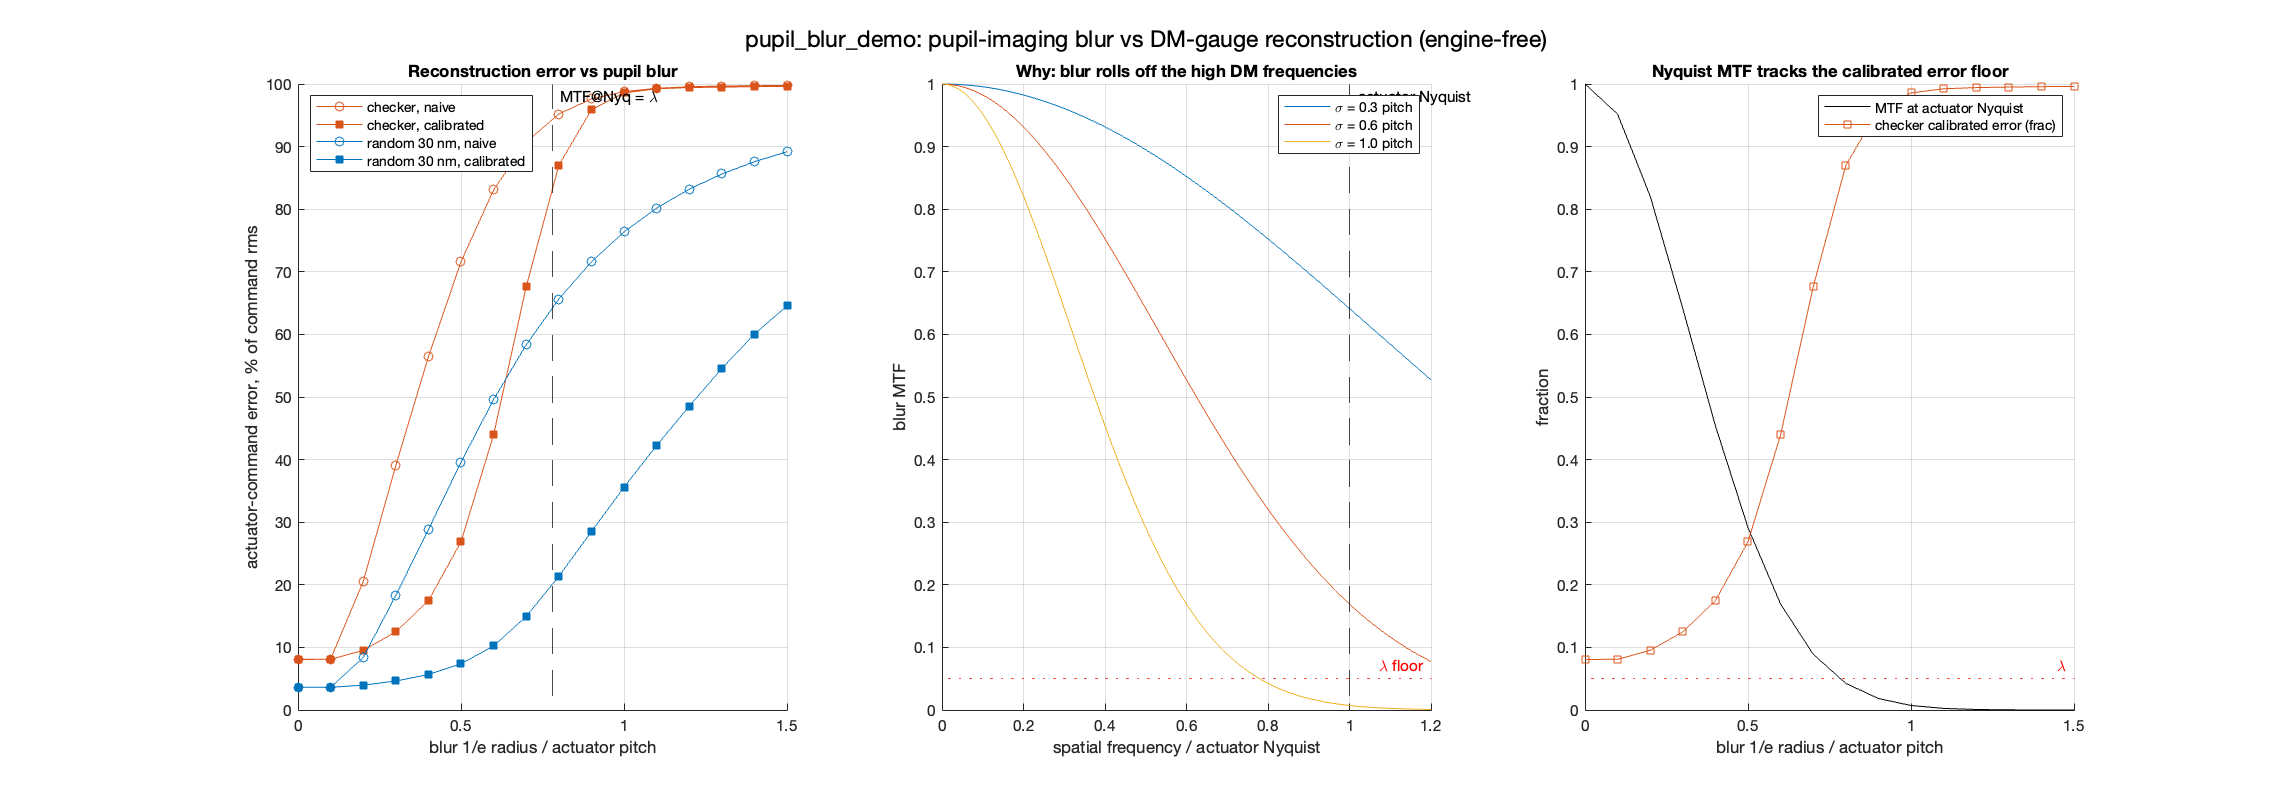
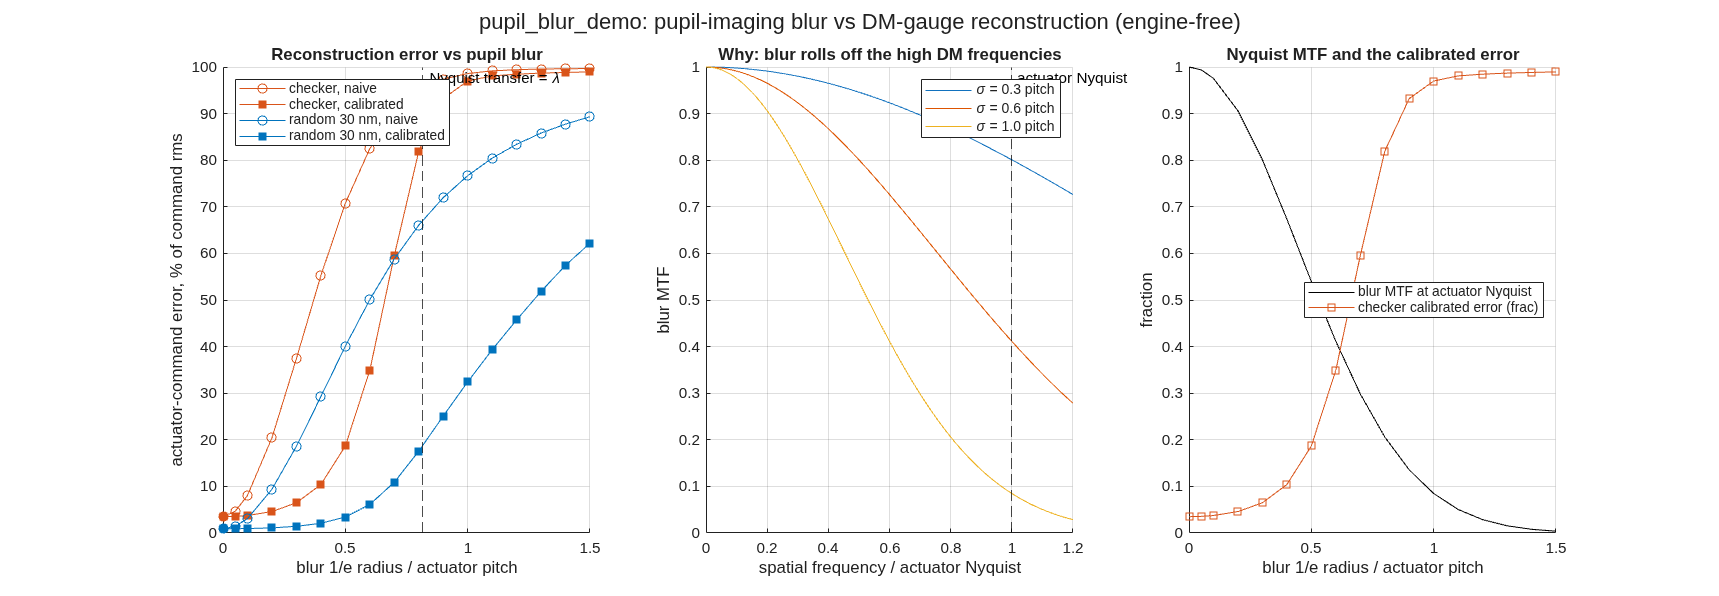
pupil_blur_demo step 1 (BRIEF_to_pupil_blur): the floor is the estimator's, now fixed -- actuator sites are grid nodes (dx = pitch/4, N odd; no interp2 at the sites), kernel solve for LIT unknowns only (local act_fit_lit_; dmg_act_fit unchanged, kept as the all-unknowns negative control), Gaussian b

diff --git a/mmacos/templates/40_benches/tg_psi_dm96_oap/pupil_blur_demo.m b/mmacos/templates/40_benches/tg_psi_dm96_oap/pupil_blur_demo.m
@@ -9,38 +9,48 @@ function out = pupil_blur_demo(varargin)
 %        Gaussian influence-function model as dm_influence_map),
 %     2. BLUR it with a pupil-imaging kernel (a Gaussian PSF of 1/e radius
 %        sigma, swept) + add read noise -- this is what the camera sees,
-%     3. RECONSTRUCT the actuator commands from the blurred map with the
-%        gauges' OWN reconstruction (dmg_stencil + dmg_act_fit, the
-%        Tikhonov lattice deconvolution -- not a toy),
+%     3. RECONSTRUCT the actuator commands from the blurred map,
 %     4. plot the actuator-command error vs blur width.
 %
 %   Two reconstructions are run at every blur width:
-%     * NAIVE   -- deconvolves the influence stencil only (blur ignored).
+%     * NAIVE      -- deconvolves the influence stencil only (blur ignored).
 %     * CALIBRATED -- deconvolves the EFFECTIVE stencil (influence (*) blur),
 %       i.e. the blur is folded into the forward model, as a calibration does.
+%
+%   The estimator is the gauges' kernel form (dmg_stencil + the Tikhonov
+%   lattice deconvolution of dmg_act_fit, lambda relative to the stencil
+%   peak), solved for the LIT actuators only, with the map sampled exactly at
+%   the actuator sites (the sites sit on the map grid: dx = pitch/4, N odd).
+%   The legacy all-unknowns solve (dmg_act_fit as it stands: every one of the
+%   96 x 96 commands free while the map is masked to the lit set) is kept as
+%   the negative control -- its free ring outside the lit set is what made the
+%   old 'blur-free floor' (8.1 % / 3.6 %, CC review 2026-10-09).
 %
 %   The lesson the curves make visible: blur attenuates the DM's HIGH
 %   spatial frequencies (an MTF roll-off).  A calibrated reconstruction
 %   undoes that -- until the MTF at the DM's highest spatial frequency (the
 %   actuator Nyquist, where the +/- checkerboard lives) falls to the
-%   reconstruction's regularization/noise floor (~lambda).  THAT crossover
-%   is "when blur is a concern".  Below it, blur costs almost nothing; the
-%   naive reconstruction, by contrast, degrades far earlier.
+%   reconstruction's regularization/noise floor.  Below it, blur costs almost
+%   nothing; the naive reconstruction, by contrast, degrades far earlier.
+%
+%   Error metric: rms over the lit actuators of (recovered - true) commands,
+%   lit-mean (piston) removed from both, divided by the rms of the true
+%   commands (piston removed).
 %
 %   Name/value (defaults match the 96x96 tg96 rig):
 %     'nact'   96     actuators across
 %     'pitch'  1.0    actuator pitch (mm)
 %     'infl_w' 0.85   influence 1/e radius, in PITCH units (dm_influence_map's)
-%     'N'      384    WF grid (= tg96 N_G)
-%     'dx'     0.28   WF grid pitch, mm (= tg96 DX_G)
+%     'sub'    4      map pixels per pitch (dx = pitch/sub; the sites are nodes)
 %     'work_nm' 30    command RMS of the working surface (random pattern)
 %     'poke_nm' 50    command amplitude of the checkerboard (Nyquist stress)
-%     'noise_pm' 20   read noise added to the blurred map, pm RMS
-%     'lam'    0.05   Tikhonov weight (dmg_act_fit default)
+%     'noise_pm' 20   read noise added to the blurred map, pm RMS per pixel
+%     'lam'    0.05   kernel Tikhonov weight (dmg_act_fit default)
+%     'lam_sweep' [0.05 1e-2 1e-3 1e-4]   the sigma = 0 lambda x noise sweep
 %     'hw'     6      stencil half-width, actuators (tg96/zwfs value)
-%     'sig_pitch' [0 0.1:0.1:1.5]  blur 1/e radii to sweep, in PITCH units
-%                                  (0 = the blur-free floor)
+%     'sig_pitch' [0 0.05 0.1:0.1:1.5]  blur 1/e radii to sweep, PITCH units
 %     'seed'   7      RNG seed (random command pattern + noise)
+%     'figures' true  write the PNGs
 %     'outdir' runs/pupil_blur_demo   where the report + PNGs are written
 %
 %   Writes <outdir>/pupil_blur_demo_{report.txt, curve.png, maps.png}.
@@ -49,13 +59,12 @@ function out = pupil_blur_demo(varargin)
 %   dm_gauge_lib helpers on the path (../dm_gauge_lib, added automatically).
 %   It is the plain-physics companion to tg96_pupilsim in this same folder.
 
-o = struct('nact',96,'pitch',1.0,'infl_w',0.85,'N',384,'dx',0.28, ...
-           'work_nm',30,'poke_nm',50,'noise_pm',20,'lam',0.05,'hw',6, ...
-           'sig_pitch',[0 0.1:0.1:1.5],'seed',7,'outdir','');
+o = struct('nact',96,'pitch',1.0,'infl_w',0.85,'sub',4, ...
+           'work_nm',30,'poke_nm',50,'noise_pm',20,'lam',0.05,'lam_sweep',[0.05 1e-2 1e-3 1e-4],'hw',6, ...
+           'sig_pitch',[0 0.05 0.1:0.1:1.5],'seed',7,'figures',true,'outdir','');
 for k = 1:2:numel(varargin), o.(varargin{k}) = varargin{k+1}; end
 here = fileparts(mfilename('fullpath'));  if isempty(here), here = pwd; end
 if isempty(o.outdir), o.outdir = fullfile(here,'runs','pupil_blur_demo'); end
-% the two gauge-library helpers that carry the real reconstruction live next door
 if isempty(which('dmg_act_fit')) && exist(fullfile(here,'..','dm_gauge_lib'),'dir')
     addpath(fullfile(here,'..','dm_gauge_lib'));
 end
@@ -66,29 +75,34 @@ rep = fopen(fullfile(o.outdir,'pupil_blur_demo_report.txt'),'w');
 clean = onCleanup(@() fclose(rep));
 say = @(varargin) deal_(fprintf(varargin{:}), fprintf(rep,varargin{:}));
 
-N = o.N;  dx = o.dx;  pitch = o.pitch;  nact = o.nact;
+% ---- geometry: the actuator sites are NODES of the map grid ----
+pitch = o.pitch;  nact = o.nact;  dx = pitch/o.sub;
 w_mm = o.infl_w*pitch;                       % influence 1/e radius, mm
-xg = ((1:N)-(N+1)/2)*dx;  [X,Y] = meshgrid(xg,xg);
-xa = ((1:nact)-(nact+1)/2)*pitch;            % actuator centres, mm
-[axg,ayg] = meshgrid(xa);
+xa = ((1:nact)-(nact+1)/2)*pitch;            % actuator centres, mm (half-integers for even nact)
 R_ap = (nact/2)*pitch;                       % DM aperture radius
+halfN = ceil((R_ap + 8*pitch)/dx);           % margin for the blur kernels
+if mod(nact,2) == 0 && mod(o.sub,2) ~= 0, error('pupil_blur_demo:sub', '''sub'' must be even for an even nact (sites at half-pitch must be nodes)'); end
+xg = (-halfN:halfN)*dx;  N = numel(xg);  [X,Y] = meshgrid(xg,xg);
+[axg,ayg] = meshgrid(xa);
+ic = round((xa - xg(1))/dx) + 1;             % grid index of each site
+assert(max(abs(xg(ic) - xa)) < 1e-9*pitch, 'the actuator sites are not grid nodes');
 R_ill = 0.74*R_ap;                           % source cone fills ~74% (the bench's illuminated-fill doctrine)
-lit = hypot(axg,ayg) < 0.85*R_ill;           % lit actuators, per dmg_lit's 0.85 R_ill rule
-litf = hypot(X,Y) < 0.85*R_ill;              % the same region on the fine grid
-
+lit = hypot(axg,ayg) < 0.85*R_ill;           % lit actuators, dmg_lit's 0.85 R_ill rule (2852 here)
+msk = hypot(X,Y) < R_ill;                    % the illuminated map (the detector support)
 f_nyq = 1/(2*pitch);                         % actuator Nyquist, cyc/mm (the checkerboard)
-mtf = @(sig) exp(-2*pi^2*sig.^2*f_nyq^2);    % Gaussian-blur MTF at the Nyquist frequency
+mtf = @(sig) exp(-pi^2*sig.^2*f_nyq^2);      % MTF of exp(-r^2/sig^2) (1/e radius sig) at the Nyquist frequency
 
 say('=== pupil_blur_demo: when is pupil-imaging blur a concern? ===\n');
-say('DM %dx%d at %.2f mm pitch; influence 1/e %.2f mm; WF grid %d x %.3f mm; %d lit actuators\n', ...
+say('DM %dx%d at %.2f mm pitch; influence 1/e %.2f mm; map grid %d x %.3f mm (the actuator sites are grid nodes); %d lit actuators (0.85 x 0.74 R_ap)\n', ...
     nact,nact,pitch,w_mm,N,dx,nnz(lit));
-say('actuator Nyquist = %.3f cyc/mm; Tikhonov lambda = %.3f; read noise = %g pm rms\n', f_nyq,o.lam,o.noise_pm);
-say('reconstruction: dmg_stencil + dmg_act_fit (the gauges'' own Tikhonov lattice deconvolution)\n\n');
+say('actuator Nyquist = %.3f cyc/mm; kernel lambda = %.3g (of the stencil peak); read noise = %g pm rms per map pixel (%d pixels per actuator)\n', ...
+    f_nyq,o.lam,o.noise_pm,o.sub^2);
+say('error = rms(recovered - true) over the lit actuators, piston removed, / rms(true commands)\n\n');
 
-% ---- the unit influence (a single poke) and the two stencils ----
-infl = @(u,v) exp(-((X-u).^2 + (Y-v).^2)/w_mm^2);
-Mu = infl(0,0);                              % unit poke at the DM centre, on the fine grid
-stn_true = dmg_stencil(Mu, xg, 0, 0, pitch, o.hw);   % the TRUE influence stencil (blur ignored)
+% ---- the unit influence (a poke at the node (0,0)) and the true stencil ----
+Kinf = infl_kernel_(w_mm, dx);
+Mu = zeros(N);  Mu((N+1)/2,(N+1)/2) = 1;  Mu = conv2(Mu, Kinf, 'same');
+stn_true = dmg_stencil(Mu, xg, 0, 0, pitch, o.hw);
 
 % ---- the two known command sets ----
 rng(o.seed);
@@ -96,48 +110,64 @@ pat.checker = o.poke_nm*1e-6 * (-1).^((1:nact).'+(1:nact));   % Nyquist stress (
 pat.random  = o.work_nm*1e-6 * randn(nact);                   % the record's 30 nm working surface
 pat.random(~lit) = 0;  pat.checker(~lit) = 0;
 names = {'checker','random'};
-surf.checker = build_surf_(pat.checker, xa, X, Y, w_mm, R_ap);
-surf.random  = build_surf_(pat.random,  xa, X, Y, w_mm, R_ap);
+for p = 1:2, surf.(names{p}) = build_surf_(pat.(names{p}), ic, N, Kinf); end
+noise = @(s) (o.noise_pm*1e-9)*randn(N);
 
+% ================= the floor (sigma = 0): lambda x noise, lit-only vs all unknowns =================
+say('---- the blur-free floor (sigma = 0): kernel estimator, lambda x read noise ----\n');
+say('%-8s %8s | %-23s | %-23s\n', 'lambda', 'noise', 'checker: lit / all unk.', 'random: lit / all unk.');
+fl = struct();
+for il = 1:numel(o.lam_sweep)
+    for nz = [o.noise_pm 0]
+        e = zeros(2,2);
+        for p = 1:2
+            rng(o.seed + 1000);  m = surf.(names{p}) + (nz*1e-9)*randn(N);
+            a1 = act_fit_lit_(m, ic, stn_true, lit, o.lam_sweep(il));
+            evalc('a2 = dmg_act_fit(m, xg, axg, ayg, stn_true, lit, o.lam_sweep(il));');   % (its pcg prints)
+            e(p,:) = [relerr_(a1, pat.(names{p}), lit), relerr_(a2, pat.(names{p}), lit)];
+        end
+        say('%-8.0e %5g pm | %9.4f%% / %8.3f%% | %9.4f%% / %8.3f%%\n', o.lam_sweep(il), nz, 100*e(1,1), 100*e(1,2), 100*e(2,1), 100*e(2,2));
+        if o.lam_sweep(il) == o.lam && nz == o.noise_pm, fl.lit = e(:,1); fl.all = e(:,2); end
+    end
+end
+say('=> lit-only, sites on the grid: the floor is the regularization bias (the checker''s Nyquist transfer against lambda) plus the noise -- it moves with both;\n');
+say('   all unknowns (dmg_act_fit as it stands, the legacy control): the free ring outside the lit set holds the floor at percent level whatever lambda and noise.\n\n');
+
+% ================= the blur sweep =================
 nS = numel(o.sig_pitch);
 err = struct('checker',struct('naive',nan(1,nS),'cal',nan(1,nS)), ...
              'random', struct('naive',nan(1,nS),'cal',nan(1,nS)));
 mtfN = mtf(o.sig_pitch*pitch);
-
-say('%-8s %8s %8s | %-18s | %-18s\n','blur','sig/pit','MTF@Nyq','checker err (naive/cal)','random err (naive/cal)');
+say('---- the blur sweep (kernel estimator, lambda %.3g, lit unknowns) ----\n', o.lam);
+say('%-8s %8s %8s | %-24s | %-24s\n','blur','sig/pit','MTF@Nyq','checker err (naive/cal)','random err (naive/cal)');
 for is = 1:nS
-    sig = o.sig_pitch(is)*pitch;                 % blur 1/e radius, mm
-    K = blur_kernel_(sig, dx);                   % normalized Gaussian PSF (sums to 1)
-    Mu_blur = conv2(Mu, K, 'same');              % the blurred unit influence
-    stn_eff = dmg_stencil(Mu_blur, xg, 0, 0, pitch, o.hw);   % the CALIBRATED (effective) stencil
+    sig = o.sig_pitch(is)*pitch;
+    stn_eff = dmg_stencil(blur_(Mu, sig, dx), xg, 0, 0, pitch, o.hw);   % the CALIBRATED (effective) stencil
     for p = 1:2
         nm = names{p};
-        m = conv2(surf.(nm), K, 'same');                     % what the camera sees
-        m = m + (o.noise_pm*1e-9)*randn(N);                  % + read noise (mm)
-        a_naive = dmg_act_fit(m, xg, axg, ayg, stn_true, lit, o.lam);
-        a_cal   = dmg_act_fit(m, xg, axg, ayg, stn_eff,  lit, o.lam);
-        err.(nm).naive(is) = relerr_(a_naive, pat.(nm), lit);
-        err.(nm).cal(is)   = relerr_(a_cal,   pat.(nm), lit);
+        rng(o.seed + is);  m = blur_(surf.(nm), sig, dx) + noise();      % what the camera sees
+        err.(nm).naive(is) = relerr_(act_fit_lit_(m, ic, stn_true, lit, o.lam), pat.(nm), lit);
+        err.(nm).cal(is)   = relerr_(act_fit_lit_(m, ic, stn_eff,  lit, o.lam), pat.(nm), lit);
     end
-    say('%6.2fmm %8.3f %8.4f | %7.2f%% / %6.2f%% | %7.2f%% / %6.2f%%\n', sig, o.sig_pitch(is), mtfN(is), ...
+    say('%6.3fmm %8.3f %8.4f | %8.3f%% / %8.3f%% | %8.3f%% / %8.3f%%\n', sig, o.sig_pitch(is), mtfN(is), ...
         100*err.checker.naive(is), 100*err.checker.cal(is), 100*err.random.naive(is), 100*err.random.cal(is));
 end
 
-% ---- the lesson: the blur-free floor, and where blur doubles it ----
-sig_lam  = sqrt(-log(o.lam)/(2*pi^2*f_nyq^2));                % the sigma where MTF(f_nyq) = lambda
-fl_chk   = err.checker.cal(1);  fl_rnd = err.random.cal(1);   % sig = 0: the intrinsic (blur-free) floor
+% ---- the lesson ----
+alt = (-1).^((-o.hw:o.hw).'+(-o.hw:o.hw));  Hn = abs(sum(stn_true.*alt,'all'))/max(abs(stn_true(:)));   % stencil transfer at Nyquist / peak
+sig_lam = sqrt(max(0,-log(o.lam/Hn))/(pi^2*f_nyq^2));         % where the blurred Nyquist transfer falls to lambda
 spmm = o.sig_pitch*pitch;
-sig2_cal_c = cross_(spmm, err.checker.cal,   2*fl_chk);       % calibrated checker reaches 2x its floor
-sig2_nai_c = cross_(spmm, err.checker.naive, 2*fl_chk);       % naive reaches 2x the same floor
+fl_c = err.checker.cal(1);
+sig2_cal_c = cross_(spmm, err.checker.cal,   max(2*fl_c, 0.01));
+sig2_nai_c = cross_(spmm, err.checker.naive, max(2*fl_c, 0.01));
 say('\n---- the lesson ----\n');
-say('blur-free floor (sigma=0, intrinsic Nyquist regularization at lambda=%.3f): checker %.1f%%, random %.1f%%\n', o.lam, 100*fl_chk, 100*fl_rnd);
-say('a CALIBRATED read holds near that floor until the blur doubles it: checker 2x floor at sigma = %.2f pitch; the NAIVE read doubles the floor by sigma = %.2f pitch\n', ...
-    sig2_cal_c/pitch, sig2_nai_c/pitch);
-say('the structural knee is MTF(actuator Nyquist) = lambda at sigma = %.2f pitch -- beyond it the checkerboard is lost even to calibration\n', sig_lam/pitch);
-say('=> blur is a concern only when its MTF at the DM''s highest spatial frequency approaches the reconstruction''s regularization/noise floor; below that a calibrated read removes it.\n');
-say('   the real tg96 leg (tg96_pupilsim) broadens a single poke by <~1%% (width/true ~1.0) -- i.e. sigma ~ 0, the far-left of these curves.\n');
+say('blur-free floor (sigma = 0, lambda %.3g, %g pm): checker %.3f%%, random %.3f%% (all-unknowns control: %.2f%% / %.2f%%)\n', ...
+    o.lam, o.noise_pm, 100*fl.lit(1), 100*fl.lit(2), 100*fl.all(1), 100*fl.all(2));
+say('the checker error passes max(2 x floor, 1%%): calibrated at sigma = %.2f pitch, naive at sigma = %.2f pitch\n', sig2_cal_c/pitch, sig2_nai_c/pitch);
+say('the structural knee: the stencil''s Nyquist transfer (%.3f of its peak) x the blur MTF falls to lambda at sigma = %.2f pitch -- beyond it the checkerboard is lost even to calibration\n', Hn, sig_lam/pitch);
 
 % ================= figures =================
+if o.figures
 fc = figure('Visible','off','Position',[100 100 1500 520]);
 sp = o.sig_pitch;
 subplot(1,3,1); hold on; grid on;
@@ -145,34 +175,30 @@ plot(sp, 100*err.checker.naive,'-o','Color',[.85 .33 .1],'DisplayName','checker,
 plot(sp, 100*err.checker.cal,  '-s','Color',[.85 .33 .1],'MarkerFaceColor',[.85 .33 .1],'DisplayName','checker, calibrated');
 plot(sp, 100*err.random.naive, '-o','Color',[0 .45 .74],'DisplayName','random 30 nm, naive');
 plot(sp, 100*err.random.cal,   '-s','Color',[0 .45 .74],'MarkerFaceColor',[0 .45 .74],'DisplayName','random 30 nm, calibrated');
-xline(sig_lam/pitch,'k--','MTF@Nyq = \lambda','LabelOrientation','horizontal','HandleVisibility','off');
+xline(sig_lam/pitch,'k--','Nyquist transfer = \lambda','LabelOrientation','horizontal','HandleVisibility','off');
 xlabel('blur 1/e radius / actuator pitch'); ylabel('actuator-command error, % of command rms');
 title('Reconstruction error vs pupil blur'); legend('Location','northwest'); ylim([0 100]);
 subplot(1,3,2); hold on; grid on;
 ff = linspace(0,1.2*f_nyq,200);
 for sgp = [0.3 0.6 1.0]
-    plot(ff/f_nyq, exp(-2*pi^2*(sgp*pitch)^2*ff.^2),'DisplayName',sprintf('\\sigma = %.1f pitch',sgp));
+    plot(ff/f_nyq, exp(-pi^2*(sgp*pitch)^2*ff.^2),'DisplayName',sprintf('\\sigma = %.1f pitch',sgp));
 end
 xline(1,'k--','actuator Nyquist','LabelOrientation','horizontal','HandleVisibility','off');
-yline(o.lam,'r:','\lambda floor','HandleVisibility','off');
 xlabel('spatial frequency / actuator Nyquist'); ylabel('blur MTF');
 title('Why: blur rolls off the high DM frequencies'); legend('Location','northeast');
 subplot(1,3,3); hold on; grid on;
-plot(sp, mtfN,'k-','DisplayName','MTF at actuator Nyquist');
+plot(sp, mtfN,'k-','DisplayName','blur MTF at actuator Nyquist');
 plot(sp, err.checker.cal,'-s','Color',[.85 .33 .1],'DisplayName','checker calibrated error (frac)');
-yline(o.lam,'r:','\lambda','HandleVisibility','off');
 xlabel('blur 1/e radius / actuator pitch'); ylabel('fraction');
-title('Nyquist MTF tracks the calibrated error floor'); legend('Location','northeast'); ylim([0 1]);
+title('Nyquist MTF and the calibrated error'); legend('Location','east'); ylim([0 1]);
 sgtitle('pupil\_blur\_demo: pupil-imaging blur vs DM-gauge reconstruction (engine-free)');
 print(fc, fullfile(o.outdir,'pupil_blur_demo_curve.png'),'-dpng','-r110');
 
-% example maps at a representative blur where the checker is clearly hurt (naive) but calibration still holds
 is0 = find(o.sig_pitch >= 0.5,1);  if isempty(is0), is0 = nS; end
-sig0 = o.sig_pitch(is0)*pitch;  K0 = blur_kernel_(sig0,dx);
-Mu0 = conv2(Mu,K0,'same');  stn0 = dmg_stencil(Mu0,xg,0,0,pitch,o.hw);
-m0 = conv2(surf.checker,K0,'same') + (o.noise_pm*1e-9)*randn(N);
-aN = dmg_act_fit(m0,xg,axg,ayg,stn_true,lit,o.lam);
-aC = dmg_act_fit(m0,xg,axg,ayg,stn0,lit,o.lam);
+sig0 = o.sig_pitch(is0)*pitch;
+stn0 = dmg_stencil(blur_(Mu,sig0,dx),xg,0,0,pitch,o.hw);
+rng(o.seed + is0);  m0 = blur_(surf.checker,sig0,dx) + noise();
+aN = act_fit_lit_(m0,ic,stn_true,lit,o.lam);  aC = act_fit_lit_(m0,ic,stn0,lit,o.lam);
 fm = figure('Visible','off','Position',[100 100 1500 480]);
 subplot(1,4,1); imagesc(xg,xg,surf.checker*1e6); axis image off; colorbar; title('true surface, nm');
 subplot(1,4,2); imagesc(xg,xg,m0*1e6); axis image off; colorbar; title(sprintf('blurred (\\sigma=%.1f pitch), nm',o.sig_pitch(is0)));
@@ -180,31 +206,55 @@ subplot(1,4,3); imagesc(xa,xa,(aN-pat.checker)*1e9.*lit); axis image off; colorb
 subplot(1,4,4); imagesc(xa,xa,(aC-pat.checker)*1e9.*lit); axis image off; colorbar; title(sprintf('calibrated cmd error, pm (%.1f%%)',100*err.checker.cal(is0)));
 sgtitle(sprintf('pupil\\_blur\\_demo: the checkerboard (actuator Nyquist) at \\sigma = %.1f pitch',o.sig_pitch(is0)));
 print(fm, fullfile(o.outdir,'pupil_blur_demo_maps.png'),'-dpng','-r110');
+end
 
-out = struct('o',o,'sig_pitch',o.sig_pitch,'mtf_nyq',mtfN,'err',err, ...
+out = struct('o',o,'sig_pitch',o.sig_pitch,'mtf_nyq',mtfN,'err',err,'floor',fl, ...
              'sig_lambda_mm',sig_lam,'lit',lit,'f_nyq',f_nyq);
-say('\nwrote pupil_blur_demo_{report.txt, curve.png, maps.png} in %s\n', o.outdir);
+say('\nwrote pupil_blur_demo_report.txt%s in %s\n', iff_(o.figures, ', _curve.png, _maps.png', ''), o.outdir);
 end
 
 % ---------------------------------------------------------------------------
-function h = build_surf_(C, xa, X, Y, w_mm, R_ap)
-% the DM surface = sum of Gaussian influence functions (dm_influence_map's model, meshgrid)
-h = zeros(size(X));
-for ia = 1:numel(xa), for ja = 1:numel(xa)
-    if C(ia,ja)==0 || hypot(xa(ia),xa(ja))>R_ap, continue; end
-    h = h + C(ia,ja)*exp(-((X-xa(ja)).^2 + (Y-xa(ia)).^2)/w_mm^2);  % meshgrid: row=y (ia), col=x (ja)
-end, end
+function K = infl_kernel_(w, dx)
+% the Gaussian influence function exp(-r^2/w^2) on the grid (peak 1), out to 5 w
+hw = ceil(5*w/dx);  t = (-hw:hw)*dx;  [kx,ky] = meshgrid(t,t);
+K = exp(-(kx.^2+ky.^2)/w^2);
 end
-function K = blur_kernel_(sig, dx)
-% normalized Gaussian PSF (1/e radius sig), truncated at 4 sigma; sig~0 -> delta
-if sig < dx/4, K = 1; return; end
-hw = max(1, ceil(4*sig/dx));  t = (-hw:hw)*dx;  [kx,ky] = meshgrid(t,t);
-K = exp(-(kx.^2+ky.^2)/sig^2);  K = K/sum(K(:));
+function h = build_surf_(C, ic, N, Kinf)
+% the DM surface = sum of Gaussian influence functions: the commands as deltas
+% at the site nodes, convolved with the influence (exact: the sites are nodes)
+D = zeros(N);  D(ic, ic) = C;                 % meshgrid convention: row = y, col = x
+h = conv2(D, Kinf, 'same');
+end
+function b = blur_(h, sig, dx)
+% the Gaussian blur exp(-r^2/sig^2)/(pi sig^2) (1/e radius sig) applied EXACTLY as its
+% transfer function exp(-pi^2 sig^2 f^2) on the FFT grid -- any sig, including the
+% sub-pixel ones a pixel kernel cannot represent (the built leg's 0.016 pitch).  The
+% surfaces sit >= 8 pitch inside the grid edge, so the periodic wrap is immaterial.
+if sig == 0, b = h; return; end
+N = size(h,1);  f = ifftshift(((0:N-1) - floor(N/2))/(N*dx));  [FX,FY] = meshgrid(f,f);
+b = real(ifft2(fft2(h).*exp(-pi^2*sig^2*(FX.^2+FY.^2))));
+end
+function a = act_fit_lit_(hd, ic, stn, lit, lam)
+% dmg_act_fit's Tikhonov lattice deconvolution, two changes: the map is read
+% EXACTLY at the site nodes (no interpolation), and the unknowns are the LIT
+% actuators only (the mask on both sides of the operator; an unlit command
+% sees only the regularizer and stays 0).
+m = hd(ic, ic);  m(~lit) = 0;
+Wf = double(lit);
+l2 = (lam*max(abs(stn(:))))^2;
+Cop = @(x) reshape(Wf.*conv2(Wf.*reshape(x, size(lit)), stn, 'same'), [], 1);
+Ct  = @(x) reshape(Wf.*conv2(Wf.*reshape(x, size(lit)), rot90(stn,2), 'same'), [], 1);
+Aop = @(x) Ct(Cop(x)) + l2*x;
+[x, ~] = pcg(Aop, Ct(m(:)), 1e-12, 400);
+a = reshape(x, size(lit));
 end
 function e = relerr_(a_hat, a_true, lit)
-e = sqrt(mean((a_hat(lit)-a_true(lit)).^2)) / sqrt(mean(a_true(lit).^2));
+d = a_hat(lit) - a_true(lit);  d = d - mean(d);
+t = a_true(lit) - mean(a_true(lit));
+e = sqrt(mean(d.^2)) / sqrt(mean(t.^2));
 end
 function s = cross_(x, y, thr)
 i = find(y>thr,1);  if isempty(i), s = NaN; else, s = x(i); end
 end
+function s = iff_(c, a, b), if c, s = a; else, s = b; end, end
 function deal_(~,~), end
